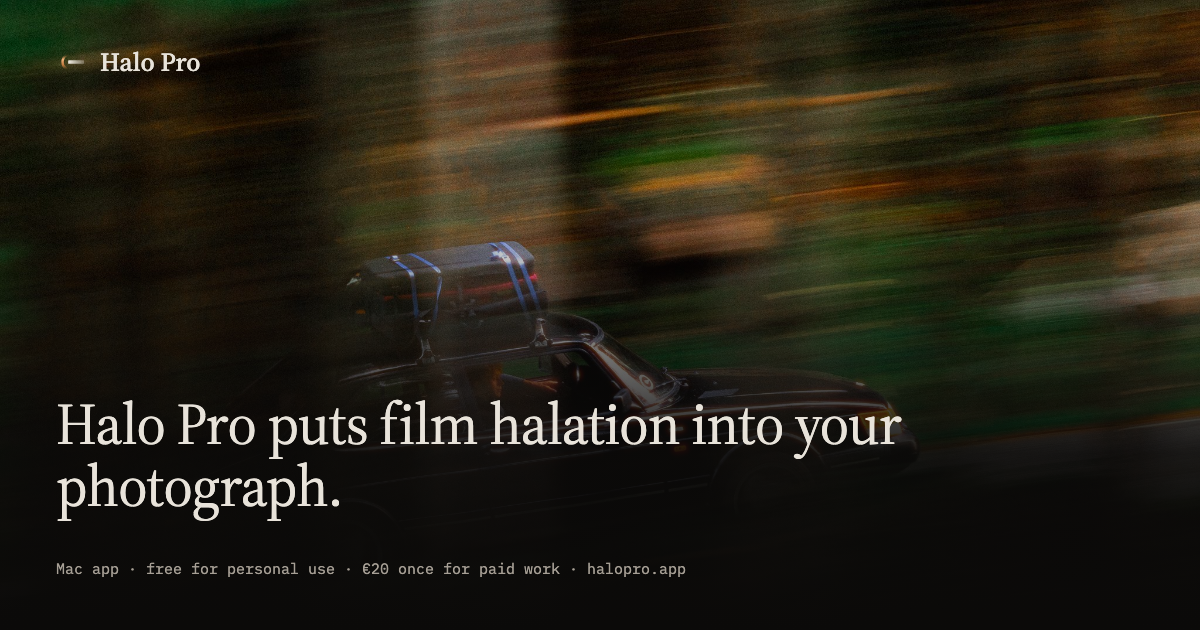
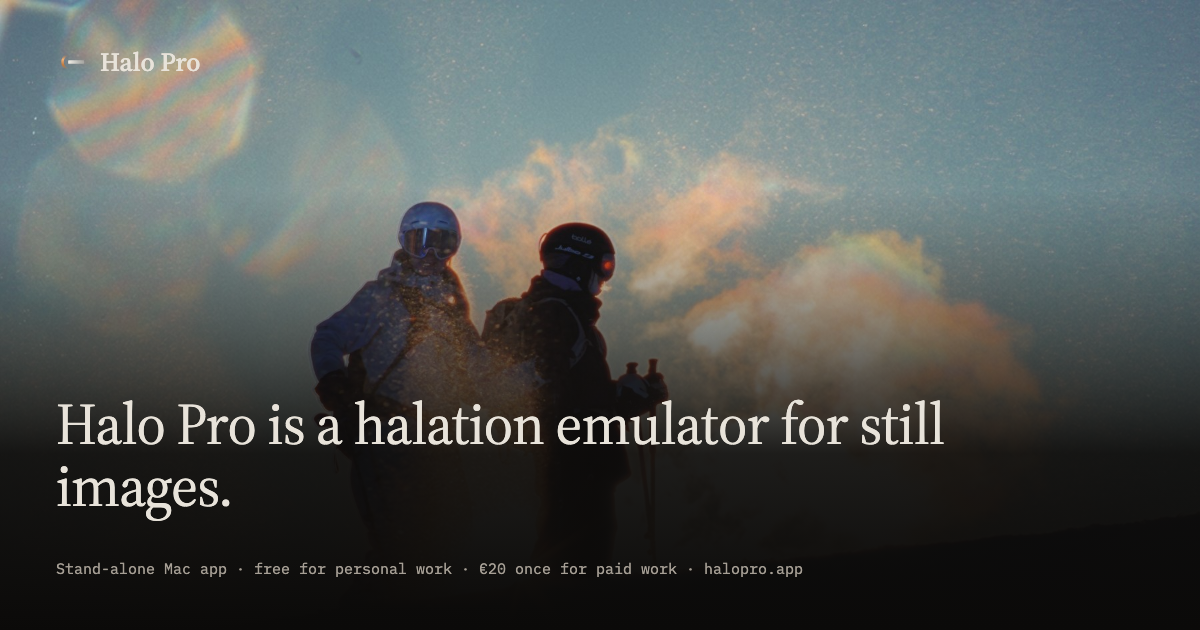
Phone labels on the comparison plates, titles and social image for the emulator positioning, handoff and design rules for the argument page

diff --git a/index.html b/index.html
@@ -3,8 +3,8 @@
 <head>
   <meta charset="UTF-8">
   <meta name="viewport" content="width=device-width, initial-scale=1.0">
-  <title>Halo Pro — film halation from the light in your photograph</title>
-  <meta name="description" content="Halo Pro puts film halation into a digital photograph the way film forms it: from the lights already in the picture, each glow in that light's colour and strength. A Mac app; free for personal use, €20 once for paid work.">
+  <title>Halo Pro — a halation emulator for still images</title>
+  <meta name="description" content="Halo Pro is a halation emulator for still images: halation and mist formed from the light already in the file. A stand-alone Mac app for colour graders and photographers; free for personal work, €20 once for paid work.">
 
   <meta name="google-site-verification" content="m87F7Zbu0O230_lW5n8nTsTzLPGEMhRxXqTcFc4xu2E">
   <link rel="canonical" href="https://halopro.app/">
@@ -14,15 +14,15 @@
 
   <meta property="og:type" content="website">
   <meta property="og:url" content="https://halopro.app/">
-  <meta property="og:title" content="Halo Pro — film halation from the light in your photograph">
-  <meta property="og:description" content="Film halation from the lights already in your photograph, not a red blur over everything bright. A Mac app; free for personal use, €20 once for paid work.">
+  <meta property="og:title" content="Halo Pro — a halation emulator for still images">
+  <meta property="og:description" content="Halo Pro is a halation emulator for still images: halation and mist formed from the light already in the file. A stand-alone Mac app for colour graders and photographers; free for personal work, €20 once for paid work.">
   <meta property="og:image" content="https://halopro.app/og-image.png">
   <meta property="og:image:width" content="1200">
   <meta property="og:image:height" content="630">
   <meta property="og:site_name" content="Halo Pro">
   <meta name="twitter:card" content="summary_large_image">
-  <meta name="twitter:title" content="Halo Pro — film halation from the light in your photograph">
-  <meta name="twitter:description" content="Light goes in. Some of it comes back. A Mac app for film halation, built on how it forms in film.">
+  <meta name="twitter:title" content="Halo Pro — a halation emulator for still images">
+  <meta name="twitter:description" content="Halo Pro is a halation emulator for still images: halation and mist formed from the light already in the file. A stand-alone Mac app for colour graders and photographers; free for personal work, €20 once for paid work.">
   <meta name="twitter:image" content="https://halopro.app/og-image.png">
 
   <link rel="icon" type="image/svg+xml" href="favicon.svg">

diff --git a/HANDOFF.md b/HANDOFF.md
@@ -133,6 +133,39 @@ now Why Halo Pro · Compare · Light path · Pricing · Technical note; the shar
 no longer mention a red blur before it is introduced; the red-first light-path step lost its wavelength detail;
 small fixes ("a tuned starting point", "they are for checking").
 
+## The argument page (10–11 Nov 2026, branch `pro-argument`, not live)
+
+Owner, 10 Nov: the Returned-light site is "more adult and pro" but "not smart or inspiring", "the software is not
+represented through the design", and "try it on your photos" reads like a phone-app ad. He wants it to explain how well
+it does halation and why that matters to professionals in their workflows. I interviewed him (his answers are in the
+memory note `positioning-interview`): "I don't want a filter, I want an emulator"; wrong halation tints sky, grey and
+clothes on campaign work, reddens eyes, treats a T-shirt like the sun; with Halo Pro it can sit anywhere in a chain;
+mist is the poetry; the audience is colour graders, serious and analogue photographers, designers.
+
+What was built overnight (he said "Build it" to the plan, then went to bed):
+- Order: 1 "Halo Pro is a halation emulator for still images." (export + Glow Preview side by side, terms as fact, text
+  links, no "try it") · 2 What halation is (light path folded) · 3 What a red blur does to a photograph (three of his
+  photos: as opened / our red blur / Halo Pro, measured captions; comparison table folded) · 4 How Halo Pro reads the
+  file (the app's own views 0, 1, 2, 7 of the hero photo; colour chart; controls map folded) · 5 A white shirt is not a
+  lamp (ladder chart, lamp and shirt) · 6 What it leaves alone (crops with sampled values; Default look named; limits)
+  · 7 Mist · 8 Further than film (window demo, Masking and Format demos, glow colour, type; formats folded) · 9 Where
+  it sits in a chain (four chains as rows, Save and return and Batch demos, how-to folded) · 10 Files, speed and limits
+  · 11 Licence, and who made it (tiers, coming next and the release list folded).
+- Rules from the judging: one settings sheet for the argument plates (halation only: Default preset, Mist off, Warmth
+  on highlights 0, Format 35 mm, Amount 1, masks off); every picture's caption starts with what it is (Export, View,
+  Photograph, our render, Demo); limits sit beside the claim they qualify; the glow cannot be exported alone, said once.
+- Assets in `img/pro/`, all from the real app through `tools/website_shots/appshots.py` with scratch shot lists (kept
+  in the session scratchpad, not in this public repo): `plates.py` (halation-only exports, views by number key, mist,
+  glow colour, type) and the generic red blur from `tools/website_shots/note/redblur.py` (sigma 14, strength 1.6).
+  Photos used from his bank (`~/Desktop/Halo Pro – Dehancer charts/small 16`): `_MG_0158-Edit` (hero and views),
+  `_MG_5212`, `_MG_5228`, `_MG_9094` (comparison plates), `_MG_0997` (glow colour). He may swap them.
+- Measured on those files (8-bit, means over the named area): grey sky +20 red under the blur, 0.0 under Halo Pro; white
+  sky +17 vs −0.5; face crop 163 161 172 → 183 167 173 (blur) → 166 162 172 (Halo Pro); white jacket +7 vs +3.
+- Copy: eleven sections drafted, fact- and voice-checked and revised by a workflow; then a five-lens review of the
+  built page (facts, voice, desktop, phone, the owner's criteria) with each finding verified before fixing.
+- Not done: a real film frame or a real Pro-Mist pair for comparison (asked him; the judges want it); Capture One is
+  untested and not named; "composite the glow" is not promised.
+
 ## Returned light: the identity revisit (8 Nov 2026; live on halopro.app since 8 Nov 23:10, main = dc6a7e6; Gumroad page not republished)
 
 Owner, 02:30: "revisit the design in all seriousness"; the circle is not the achievement; what he liked in the old orange

diff --git a/DESIGN.md b/DESIGN.md
@@ -43,18 +43,20 @@ Six sizes (`--t-small` 14, `--t-body` 17, `--t-lead` 21, `--t-head` 24–30, `--
 
 ## Layout
 
-One reading column (about 34 em for prose, 1280 max for plates). Order: purpose, buttons, the photograph; then
-what it does with the real window; then one short section per thing the app does, text beside the app; then the
-physics (light path, scale, controls, float); then price with the limits said once beside it; then the story and
-a dated development list behind Read more.
+The page is one argument, in the order a colour grader would test it, and the software is shown the way it sees a
+file. Order: what it is (the export beside Glow Preview, terms as fact, text links) · what halation is · what a red
+blur does to a photograph · how Halo Pro reads the file (the app's own views) · a white shirt is not a lamp · what it
+leaves alone · mist · further than film · where it sits in a chain · files, speed and limits · licence and who made it.
 
-A plate is one photograph or figure on the ground with a mono caption under it. No tiles, no cards for content,
-no counters, no stat set large unless it is a physical quantity that decides something. Hairlines only where a
-figure needs a baseline. Long parts fold behind "Read more" (`details.more`).
+One reading column (about 38 em for prose, 1280 max for plates). A plate is a photograph, a view or a figure on the
+ground with a mono caption that starts with what it is: Export, View, Photograph, our render, Demo. Comparisons sit
+side by side on the same file, never a screen apart. One settings sheet for the argument plates (halation only:
+Mist off, Warmth on highlights 0, Format 35 mm, Amount 1), printed once. Limits sit beside the claim they qualify.
+No tiles, no counters, no "try it": the calls to action are plain text links (Download, Buy the Pro licence, Read the
+measurements). Long parts fold behind "Read more" (`details.more`).
 
-Live demos (the stageshow kit, built into `stage-build/`) stay only where they prove a claim: the window with the
-Amount and Format story, Masking, Format, Batch, Save and return. The app's own look inside them is the app's,
-not the site's. On phones a demo is its poster plus the one control the story drags.
+Live demos (the stageshow kit, built into `stage-build/`) stay only where they show a control: the window with the
+Amount and Format story, Masking, Format, Save and return, Batch. The app's own look inside them is the app's.
 
 ## The mark
 

diff --git a/CLAUDE.md b/CLAUDE.md
@@ -78,7 +78,7 @@ Links: `https://alriclj.gumroad.com/l/HALO_PRO?variant=<Halo%20Pro | Halo%20Pro%
   `stage-build/` (committed; the page loads `stage-build/halo-stage.js` and `.css`). Film with
   `node scripts/film.mjs <url> --select '#example' --gate` (Chrome must run outside the Bash sandbox). Every demo passes
   the gate at desktop and 390 before it ships; posters are `--still` frames of `#example .ss-stage`.
-  Order (Nov 2026): hero with the live window → Built for professional files (feature grid of demos) → What a red blur gets wrong → How it compares → Light path → Scale → Controls → Precision & files → Pro & pricing (with the Save and return demo and the story) → Development. Long parts fold behind "Read more" (`details.more`).
+  Order (11 Nov 2026, the argument page; rules in `DESIGN.md`): what it is (export + Glow Preview) → What halation is → What a red blur does to a photograph → How Halo Pro reads the file (views 0, 1, 2, 7) → A white shirt is not a lamp → What it leaves alone → Mist → Further than film → Where it sits in a chain → Files, speed and limits → Licence. Plates in `img/pro/` are real app captures and exports of the owner's photographs. Long parts fold behind "Read more" (`details.more`).
 - `style.css` — tokens in `:root` (colours, and the six type sizes `--t-small` … `--t-display`). Fonts: Inter Tight + IBM Plex Mono (Google Fonts). Red glow (`--glow`) only on display-size red type (owner's request); the red second line only on the hero, the Light path heading and the note's title (owner, 2 Nov 2026).
 - `img/app/` — real app screenshots and exports. `img/ex*`, `hero-wave.jpg` — older images, unused by v4. `_old/` — previous versions, reference only.
 - `HANDOFF.md` — state of the v4 redesign, open decisions, publish checklist.
